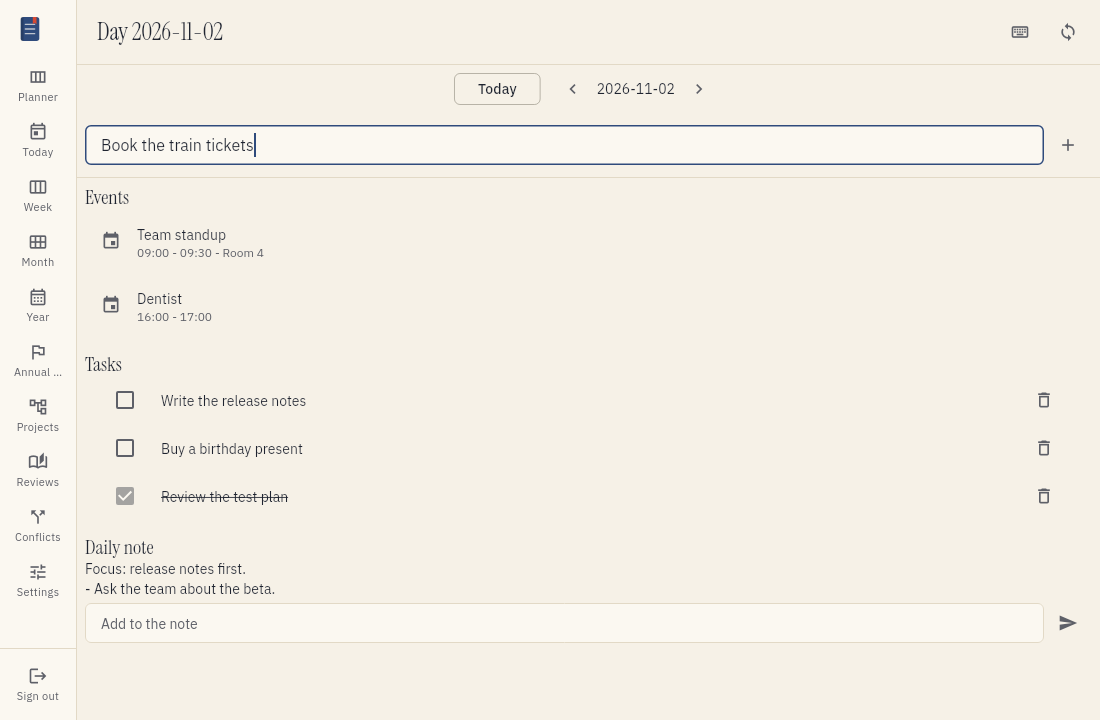
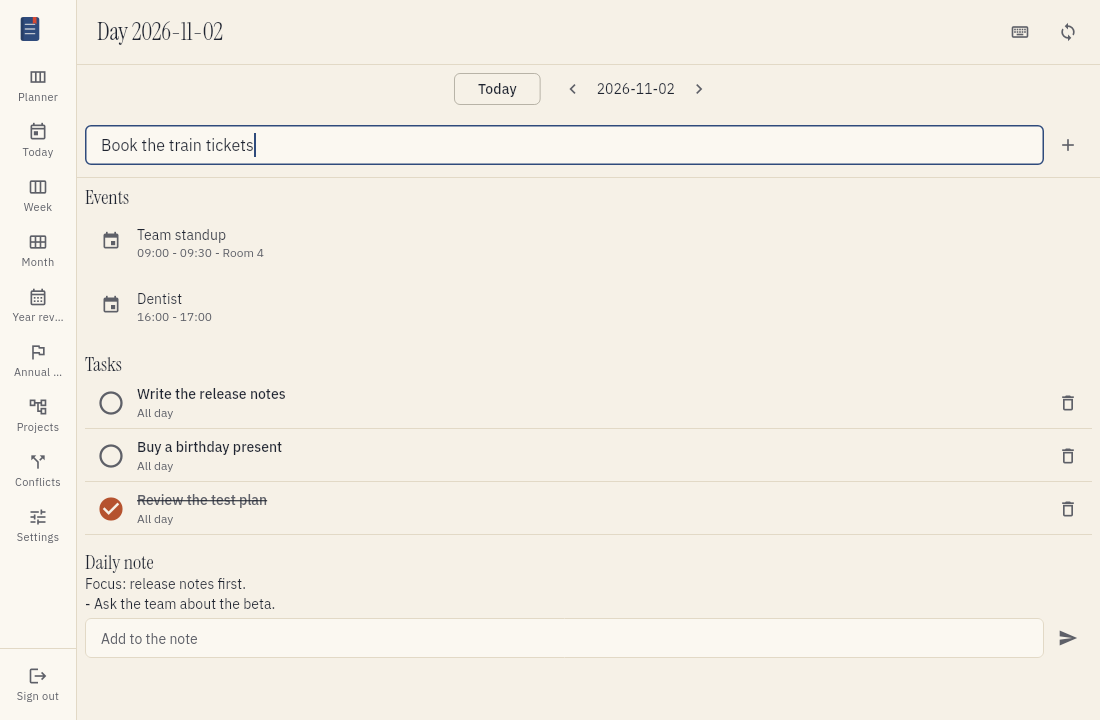
Complete and edit tasks in the daily view
A task in the daily view had a small check box, did nothing when it was touched, and had no way
to be edited. Now:

- The circle at the left of a task is a large target. It marks the task done, and a second
  touch marks it not done again.
- A touch on the task opens the pop-up that the planner uses, to change the title, the due date
  and time, the description and more. The day loads again after it closes.
- A task shows its due time or all day, and its project.

The task has an all_day field in the app, as the server already sends it.

diff --git a/frontend/lib/features/daily/daily_screen.dart b/frontend/lib/features/daily/daily_screen.dart
@@ -11,6 +11,7 @@ import '../../core/planning_api.dart';
 import '../../core/planning_models.dart';
 import '../../core/shell.dart';
 import '../../theme/theme.dart';
+import '../planner/details_dialogs.dart' show showTaskDetails;
 import '../settings/connection_models.dart';
 import '../settings/sync_controller.dart';
 import 'daily_providers.dart';
@@ -265,28 +266,83 @@ class _DailyScreenState extends ConsumerState<DailyScreen> {
     );
   }
 
-  Widget _taskTile(PlanTask t) => ListTile(
-        key: Key('task-${t.id}'),
-        leading: Checkbox(
-          key: Key('complete-${t.id}'),
-          value: t.done,
-          onChanged: t.done
-              ? null
-              : (_) =>
-                  _run(() => ref.read(planningApiProvider).completeTask(t.id)),
+  /// Marks the task done, or open again when it is done already.
+  Future<void> _toggle(PlanTask t) => _run(() {
+        final api = ref.read(planningApiProvider);
+        return t.done ? api.reopenTask(t.id) : api.completeTask(t.id);
+      });
+
+  /// Opens the pop-up where the title, the due date and the rest can change,
+  /// then loads the day again.
+  Future<void> _edit(PlanTask t) async {
+    await showTaskDetails(context, taskId: t.id, initial: t);
+    if (mounted) ref.invalidate(dayViewProvider(_key));
+  }
+
+  /// When the task is due on this day: its time, or "All day".
+  String _dueText(PlanTask t) {
+    final start = t.scheduledStart?.toLocal() ?? t.dueAt?.toLocal();
+    return t.allDay || start == null ? 'All day' : 'Due ${hhmm(start)}';
+  }
+
+  Widget _taskTile(PlanTask t) {
+    final scheme = Theme.of(context).colorScheme;
+    final colors = context.tefteri;
+    final text = Theme.of(context).textTheme;
+    final details = [
+      _dueText(t),
+      if (t.project != null && t.project!.isNotEmpty) t.project!,
+    ].join(' \u00b7 ');
+    final note = _syncNote(t.syncState);
+    return InkWell(
+      key: Key('task-${t.id}'),
+      // A tap on the row opens the task to edit it.
+      onTap: () => _edit(t),
+      child: DecoratedBox(
+        // A ruled line under every task, like the lines of a notebook page.
+        decoration: BoxDecoration(
+          border: Border(bottom: BorderSide(color: colors.rule)),
         ),
-        title: Text(
-          t.title,
-          style: t.done
-              ? const TextStyle(decoration: TextDecoration.lineThrough)
-              : null,
-        ),
-        subtitle: _syncNote(t.syncState).isEmpty
-            ? null
-            : Text(_syncNote(t.syncState).substring(3)),
-        trailing: Row(
-          mainAxisSize: MainAxisSize.min,
+        child: Row(
           children: [
+            // A large target, so that a finger can hit it.
+            IconButton(
+              key: Key('complete-${t.id}'),
+              tooltip: t.done ? 'Mark not done' : 'Mark done',
+              iconSize: 28,
+              constraints: const BoxConstraints(minWidth: 52, minHeight: 52),
+              icon: Icon(
+                t.done ? Icons.check_circle : Icons.radio_button_unchecked,
+                color: t.done
+                    ? (parseCalendarColor(t.projectColor) ?? colors.task)
+                    : scheme.onSurfaceVariant,
+              ),
+              onPressed: () => _toggle(t),
+            ),
+            Expanded(
+              child: Padding(
+                padding: const EdgeInsets.symmetric(vertical: Space.sm),
+                child: Column(
+                  crossAxisAlignment: CrossAxisAlignment.start,
+                  children: [
+                    Text(
+                      t.title,
+                      maxLines: 2,
+                      overflow: TextOverflow.ellipsis,
+                      style: text.bodyMedium?.copyWith(
+                        fontWeight: FontWeight.w500,
+                        color: t.done ? scheme.onSurfaceVariant : null,
+                        decoration: t.done ? TextDecoration.lineThrough : null,
+                      ),
+                    ),
+                    Text(details,
+                        key: Key('task-due-${t.id}'), style: text.bodySmall),
+                    if (note.isNotEmpty)
+                      Text(note.substring(3), style: text.bodySmall),
+                  ],
+                ),
+              ),
+            ),
             IconButton(
               key: Key('delete-${t.id}'),
               tooltip: 'Delete task',
@@ -296,7 +352,9 @@ class _DailyScreenState extends ConsumerState<DailyScreen> {
             ),
           ],
         ),
-      );
+      ),
+    );
+  }
 
   /// Text appended to a subtitle for non-synced items (starts with " - ").
   String _syncNote(String state) => switch (state) {

diff --git a/frontend/test/features/daily/daily_screen_test.dart b/frontend/test/features/daily/daily_screen_test.dart
@@ -69,12 +69,107 @@ void main() {
     expect(api.where(_path), hasLength(2));
   });
 
-  testWidgets('a done task cannot be completed again', (tester) async {
-    final api = _api();
+  testWidgets('a done task is marked not done by its check mark',
+      (tester) async {
+    final api = _api({'POST /tasks/t3/reopen': taskJson('t3', 'Old task')});
     await _pump(tester, api);
     await tester.tap(find.byKey(const Key('complete-t3')));
     await tester.pumpAndSettle();
+    await tester.pumpAndSettle();
     expect(api.where('POST /tasks/t3/complete'), isEmpty);
+    expect(api.where('POST /tasks/t3/reopen'), hasLength(1));
+    expect(api.where(_path), hasLength(2));
+  });
+
+  testWidgets('the check mark is a target that a finger can hit',
+      (tester) async {
+    await _pump(tester, _api());
+    final size = tester.getSize(find.byKey(const Key('complete-t1')));
+    expect(size.width, greaterThanOrEqualTo(48));
+    expect(size.height, greaterThanOrEqualTo(48));
+  });
+
+  testWidgets(
+      'a tap on a task opens it, and a change of the title is saved and the day is loaded again',
+      (tester) async {
+    final api = _api({
+      'GET /tasks/t1': taskJson('t1', 'Write report'),
+      'PATCH /tasks/t1': taskJson('t1', 'Write the report'),
+      'POST /tasks/t1/schedule': taskJson('t1', 'Write the report'),
+    });
+    await _pump(tester, api);
+    await tester.tap(find.byKey(const Key('task-t1')));
+    await tester.pumpAndSettle();
+    expect(find.byKey(const Key('task-details')), findsOneWidget);
+    // Nothing was completed by opening it.
+    expect(api.where('POST /tasks/t1/complete'), isEmpty);
+    await tester.enterText(
+        find.byKey(const Key('task-edit-title')), 'Write the report');
+    await tester.pump();
+    await tester.tap(find.byKey(const Key('task-save')));
+    await tester.pumpAndSettle();
+    expect(api.where('PATCH /tasks/t1').single.data,
+        {'title': 'Write the report', 'description': ''});
+    // The pop-up is closed and the day is loaded again.
+    expect(find.byKey(const Key('task-details')), findsNothing);
+    expect(api.where(_path), hasLength(2));
+  });
+
+  testWidgets('the due date of a task can be removed in its pop-up',
+      (tester) async {
+    final dated = {
+      ...taskJson('t1', 'Write report'),
+      'due_at': DateTime(2026, 11, 1).toUtc().toIso8601String(),
+    };
+    final day = _day();
+    (day['tasks']! as List<Object?>)[0] = dated;
+    final api = FakeApi({
+      _path: day,
+      'GET /connections': [connectionJson('c1', 'tasks', 'Home tasks')],
+      'GET /tasks/t1': dated,
+      'DELETE /tasks/t1/schedule': taskJson('t1', 'Write report'),
+    });
+    await _pump(tester, api);
+    await tester.tap(find.byKey(const Key('task-t1')));
+    await tester.pumpAndSettle();
+    expect(find.byKey(const Key('task-edit-date')), findsOneWidget);
+    expect(find.byKey(const Key('task-edit-time')), findsOneWidget);
+    await tester.tap(find.byKey(const Key('task-edit-date-clear')));
+    await tester.pump();
+    await tester.tap(find.byKey(const Key('task-save')));
+    await tester.pumpAndSettle();
+    expect(api.where('DELETE /tasks/t1/schedule'), hasLength(1));
+    // The day is loaded again, so the task can leave the list.
+    expect(api.where(_path), hasLength(2));
+  });
+
+  testWidgets('a task shows its due time, or all day', (tester) async {
+    final day = _day();
+    (day['tasks']! as List<Object?>)
+      ..[0] = {
+        ...taskJson('t1', 'Write report'),
+        'due_at': DateTime(2026, 11, 1, 14, 30).toUtc().toIso8601String(),
+        'scheduled_start':
+            DateTime(2026, 11, 1, 14, 30).toUtc().toIso8601String(),
+        'scheduled_end':
+            DateTime(2026, 11, 1, 15, 30).toUtc().toIso8601String(),
+        'project': 'Home',
+      }
+      ..[1] = {
+        ...taskJson('t2', 'Buy milk'),
+        'due_at': DateTime(2026, 11, 1).toUtc().toIso8601String(),
+        'all_day': true,
+      };
+    await _pump(
+        tester,
+        FakeApi({
+          _path: day,
+          'GET /connections': [connectionJson('c1', 'tasks', 'Home tasks')],
+        }));
+    final timed = tester.widget<Text>(find.byKey(const Key('task-due-t1')));
+    expect(timed.data, 'Due 14:30 \u00b7 Home');
+    final allDay = tester.widget<Text>(find.byKey(const Key('task-due-t2')));
+    expect(allDay.data, 'All day');
   });
 
   testWidgets('delete calls the API', (tester) async {

diff --git a/frontend/lib/core/planning_models.dart b/frontend/lib/core/planning_models.dart
@@ -29,6 +29,7 @@ class PlanTask {
     required this.syncState,
     this.description,
     this.dueAt,
+    this.allDay = false,
     this.scheduledStart,
     this.scheduledEnd,
     this.goalId,
@@ -50,6 +51,7 @@ class PlanTask {
         description: j['description'] as String?,
         status: '${j['status'] ?? 'open'}',
         dueAt: _dt(j['due_at']),
+        allDay: j['all_day'] == true,
         scheduledStart: _dt(j['scheduled_start']),
         scheduledEnd: _dt(j['scheduled_end']),
         syncState: '${j['sync_state'] ?? 'synced'}',
@@ -81,6 +83,9 @@ class PlanTask {
 
   /// Due time, if any.
   final DateTime? dueAt;
+
+  /// The task has a due day but no time of day.
+  final bool allDay;
 
   /// Planned start, if scheduled.
   final DateTime? scheduledStart;

diff --git a/docs/user/daily-planning.md b/docs/user/daily-planning.md
@@ -38,15 +38,20 @@ The task goes to your task app. It shows in the daily view when it is due on tha
 ## Complete a task
 
 1. Find the task in the daily view.
-2. Choose the check box next to the task.
+2. Choose the circle at the left of the task. On a phone, the circle is large, so you can hit it
+   with a finger.
 
-The task app marks the task as done. To reopen the task, choose the check box again.
+The task app marks the task as done. The circle gets a check mark, and the title gets a line
+through it. To reopen the task, choose the circle again.
 
 ## Edit a task
 
-1. Choose the title of the task.
-2. Change the title, the due date or other fields.
+1. Choose the task. On a phone, touch the title.
+2. Change the title, the due date, the time, the description or other fields.
 3. Choose Save.
+
+The daily view loads the day again. If you gave the task another due date, the task moves to that
+day. Choose Cancel to close the window and keep the old values.
 
 ## Delete a task
 
